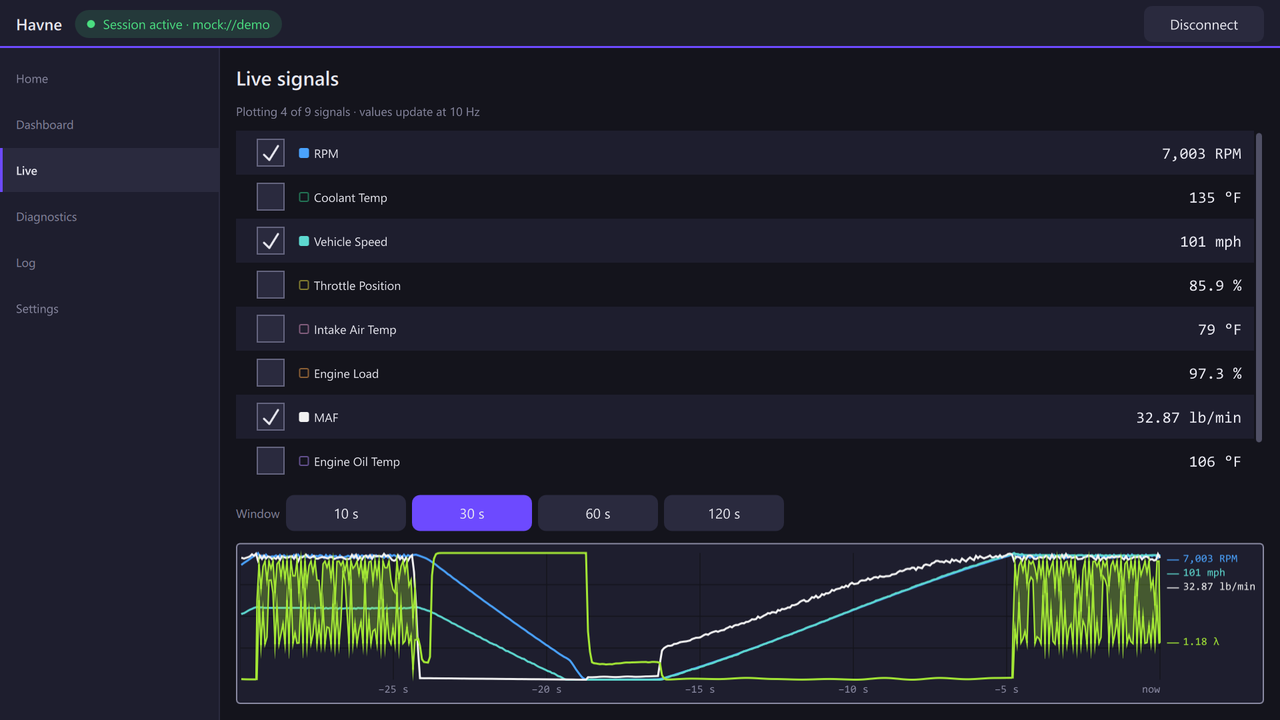
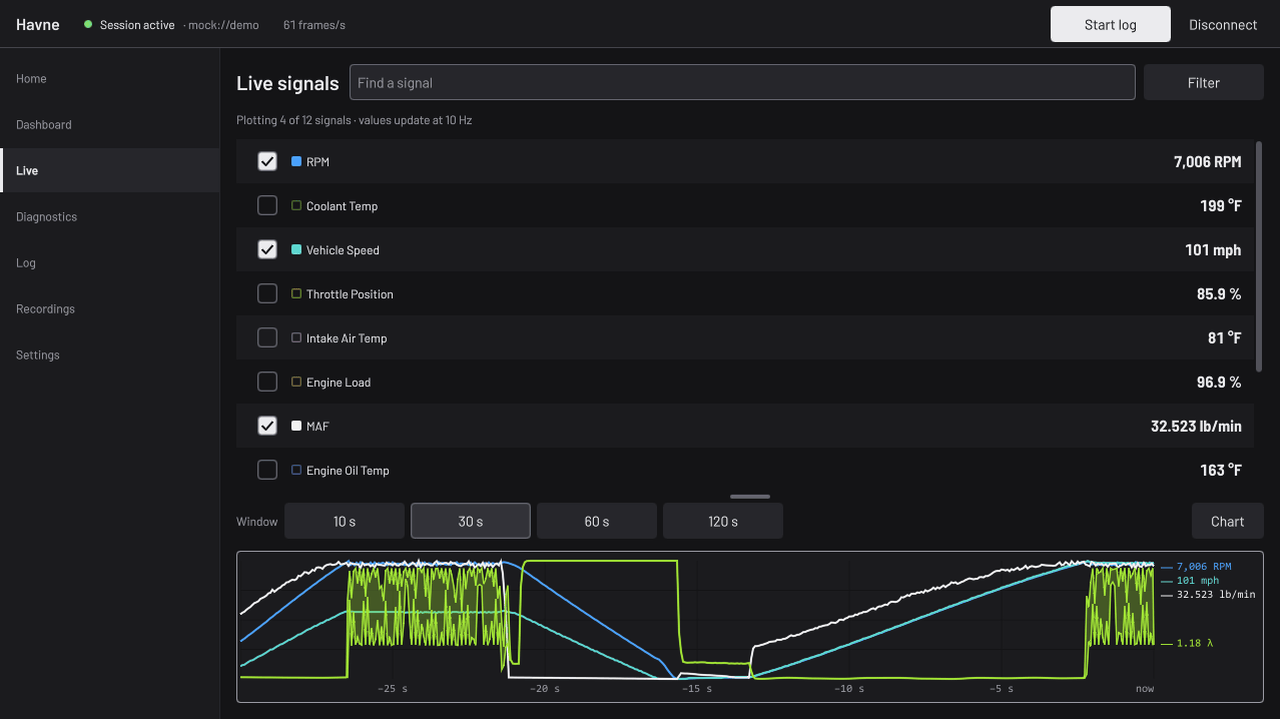
docs: show v0.7.1's look in the README and add a screenshots gallery
The README keeps the Dashboard clip, retaken, and gains a row of three phone shots (Dashboard in Dark, Live, Dashboard in Night red) and desktop Live. docs/screenshots.md holds every page on the desktop and the phone, Dashboard and Live in each theme, Live on its side and the drive view. All on mock://demo. The phone's Dashboard and drive view are the phone layout drawn by the desktop build at the phone's width. Diagnostics, link health, the Log and Recordings move to the gallery as new shots, and log.gif goes.

diff --git a/docs/screenshots.md b/docs/screenshots.md
@@ -1,0 +1,108 @@
+# Screenshots
+
+Every page of Havne on the desktop and the phone, all on the simulated
+vehicle (`mock://demo`) in US units. Dark is the default look; Night
+dims it for a dark cabin in amber or red (Settings, Display). The
+README shows a few of these.
+
+- **Desktop:** the Windows app at 1280x720.
+- **Phone:** Live, Codes, the Log and Settings are from the test phone
+  (Android 16). The Dashboard and the drive view are the phone layout
+  with its built-in default page, the same pages drawn by the desktop
+  build in the phone's form at the phone's width.
+
+## Desktop
+
+### Dashboard
+
+![The Dashboard through a quarter mile: a launch from the two-step near 3,900 rpm, upshifts that refill the shift lights, and about 103 mph near the line](images/dashboard.gif)
+
+*A quarter mile on the warmed-up vehicle: the launch, each upshift, and
+coolant and oil climbing toward the fan's cut-in.*
+
+| Night, amber | Night, red |
+|---|---|
+| [![The Dashboard in Night's amber style in a 2nd-gear pull at 5,772 rpm](images/desktop-dashboard-amber.png)](images/desktop-dashboard-amber.png) | [![The Dashboard in Night's red style in a 2nd-gear pull at 6,366 rpm](images/desktop-dashboard-red.png)](images/desktop-dashboard-red.png) |
+
+### Live
+
+![Live: rpm, speed, MAF and lambda through a 3rd-gear pull onto the limiter](images/live.png)
+
+*Four signals plotted through a 3rd-gear pull onto the limiter, with the
+2nd-gear pull still on the chart.*
+
+| Night, amber | Night, red |
+|---|---|
+| [![Live in Night's amber style, all twelve signals plotted in a pull at 6,433 rpm](images/desktop-live-amber.png)](images/desktop-live-amber.png) | [![Live in Night's red style, all twelve signals plotted on the limiter](images/desktop-live-red.png)](images/desktop-live-red.png) |
+
+### Diagnostics
+
+![Diagnostics: the inspection verdict, ECU 0x7E8's stored, pending and permanent codes with their titles, and the readiness monitors](images/desktop-diagnostics.png)
+
+*The inspection verdict (it would fail: the ECU commands the
+check-engine light on), each code with its SAE J2012 title, and the
+readiness monitors, each done this drive and complete since the clear.*
+
+### Log
+
+| Activity | Frames |
+|---|---|
+| [![The Log's activity view: two connects and, between them, the disconnect's Delivery line](images/desktop-log-activity.png)](images/desktop-log-activity.png) | [![The Log's frame table in developer mode, newest first](images/desktop-log-frames.png)](images/desktop-log-frames.png) |
+| Each session's lines; a disconnect adds its Delivery line (none dropped, and the GUI thread's wait) | In developer mode, the raw frames: time, length, standard or extended ID, payload |
+
+### Recordings
+
+![The Recordings page: a 15-minute recording open in the viewer, four signals plotted, the frames check finding nothing](images/desktop-recordings.png)
+
+*A 15-minute recording in the viewer: rpm and speed through each loop,
+coolant and oil warming from the cold start; the frames check found
+nothing in 18,442 frames.*
+
+### Link health
+
+![Live over the fake J2534 driver with every request refused: the "Requests failing" status and banner, and the chart waiting for data](images/desktop-link-health.png)
+
+*Every request refused by the fake J2534 driver: the link reads
+"Requests failing", not idle, and the banner says what to check.*
+
+### Home and Settings
+
+| Home | Settings |
+|---|---|
+| [![Home with a session running](images/desktop-home.png)](images/desktop-home.png) | [![Settings with Display open beside the list: display size, Night and its style, units](images/desktop-settings-display.png)](images/desktop-settings-display.png) |
+| The session's state and the core's version | Display beside the list: size, Night off, on or scheduled, its style, units |
+
+## Phone
+
+### Dashboard
+
+| Dark | Night, amber | Night, red |
+|---|---|---|
+| [![The phone layout's Dashboard in a 2nd-gear pull at 6,252 rpm](images/phone-dashboard-dark.png)](images/phone-dashboard-dark.png) | [![The phone layout's Dashboard in Night's amber style at 5,359 rpm](images/phone-dashboard-amber.png)](images/phone-dashboard-amber.png) | [![The phone layout's Dashboard in Night's red style at 6,475 rpm](images/phone-dashboard-night.png)](images/phone-dashboard-night.png) |
+
+*The phone's joined panel: the tach beside speed, coolant and oil, MAF
+with its trace, then intake air, load and throttle.*
+
+### Drive view
+
+![The drive view: the gauges full screen under a one-line status, every bar hidden](images/phone-drive-view.png)
+
+*The drive view: every bar hidden, the gauges full screen under a
+one-line status; a tap brings the controls back.*
+
+### Live
+
+| Dark | Night, amber | Night, red |
+|---|---|---|
+| [![Live on the test phone on the limiter, twelve signals and a minute of the chart](images/phone-live.png)](images/phone-live.png) | [![Live on the test phone in Night's amber style on the limiter](images/phone-live-amber.png)](images/phone-live-amber.png) | [![Live on the test phone in Night's red style on the limiter](images/phone-live-red.png)](images/phone-live-red.png) |
+
+![Live on the test phone on its side: the chart takes the page through the quarter mile](images/phone-live-landscape.png)
+
+*On its side, the chart takes the page: the quarter mile at the right.*
+
+### Codes, Log and Settings
+
+| Codes | Log | Settings |
+|---|---|---|
+| [![Codes on the test phone: the inspection verdict and ECU 0x7E8's codes with their titles](images/phone-codes.png)](images/phone-codes.png) | [![The Log's frame table on the test phone](images/phone-log.png)](images/phone-log.png) | [![Settings, Display on the test phone: size, Night, units, and the drive view's options](images/phone-settings-display.png)](images/phone-settings-display.png) |
+| The verdict, then each ECU's codes | The status opens the Log; here its frames | Display, with the drive view's bars and orientation |

diff --git a/README.md b/README.md
@@ -38,22 +38,16 @@ Havne reads a car through J2534, ELM327 or SocketCAN adapters on Windows, Linux 
 - **`havne-cli` and Python:** any session as JSON lines or iterators, recordings viewed and exported offline, the simulated car served as an ELM327 adapter ([ADR-0031](docs/adr/0031-command-line-client.md), [ADR-0053](docs/adr/0053-python-bindings.md)).
 - **A simulated vehicle:** a modeled car through a cold start, pulls onto the limiter and a quarter mile, so every page runs with no hardware.
 
-| Live view | Link health |
-|---|---|
-| [![Live view: a 3rd-gear pull onto the limiter](docs/images/live.png)](docs/images/live.png) | [![Live view with every request failing: an amber banner](docs/images/link-health.png)](docs/images/link-health.png) |
-| A 3rd-gear pull onto the limiter: rpm, speed and MAF rise together, then rpm saws while speed holds and lambda swings lean on each fuel cut | Every request refused by the fake J2534 driver: the link reads "requests failing", not idle, and the page says what to check |
+| Dashboard | Live | Dashboard at night |
+|---|---|---|
+| [![The phone layout's Dashboard in a 2nd-gear pull at 6,252 rpm](docs/images/phone-dashboard-dark.png)](docs/images/phone-dashboard-dark.png) | [![Live on the test phone on the limiter, each reading with its value and a minute of the chart](docs/images/phone-live.png)](docs/images/phone-live.png) | [![The phone layout's Dashboard with Night on in red](docs/images/phone-dashboard-night.png)](docs/images/phone-dashboard-night.png) |
+| The phone layout in a 2nd-gear pull, the shift lights filling | Live on the test phone, on the rev limiter | Night in red, for a dark cabin |
 
-![The Diagnostics page on the simulated vehicle](docs/images/diagnostics.png)
+![Live on the desktop: rpm, speed, MAF and lambda through a 3rd-gear pull onto the limiter](docs/images/live.png)
 
-*Diagnostics: the inspection verdict, each code with its SAE J2012 title, the readiness monitors.*
+*Live on the desktop: a 3rd-gear pull onto the limiter, lambda swinging lean on each fuel cut.*
 
-![The Log page in developer mode: activity, then raw frames](docs/images/log.gif)
-
-*The Log page in developer mode: each session, then the frames.*
-
-![The Recordings page: two runs overlaid](docs/images/recordings.png)
-
-*Recordings: a warm loop's pull with the cold start's overlaid, aligned on a marker.*
+Every page on the desktop and the phone, in each theme: [docs/screenshots.md](docs/screenshots.md).
 
 ## Architecture
 
@@ -146,6 +140,7 @@ v0.7.0, the dashboard and the UI, is the latest release. Next:
 | [docs/j2534.md](docs/j2534.md), [docs/elm327.md](docs/elm327.md) | How each adapter transport works |
 | [docs/linux.md](docs/linux.md) | Havne on Linux: the AppImage, the core packages, adapters and permissions, SocketCAN, tracing |
 | [docs/ios.md](docs/ios.md) | Havne on iPhone: installing CI's unsigned build with your own Apple ID, what works there |
+| [docs/screenshots.md](docs/screenshots.md) | Every page on the desktop and the phone, in each theme |
 | [docs/development.md](docs/development.md) | Builds, tests, CI, releases, troubleshooting |
 | [docs/bench-sessions/](docs/bench-sessions/bench-prep.md) | Real-hardware sessions, their run sheets, and what only hardware can confirm |
 | [docs/engineering-log.md](docs/engineering-log.md) | Milestones and lessons learned |

diff --git a/docs/architecture.md b/docs/architecture.md
@@ -637,6 +637,7 @@ Detail and gaps: [testing.md](testing.md).
 | How to run Havne on Linux: the downloads, adapters and permissions, SocketCAN, tracing | [linux.md](linux.md) |
 | How to write a file of your own signals: DIDs and PIDs, enumerations, computed signals | [signal-files.md](signal-files.md) |
 | How to install Havne on an iPhone for testing, and what works there | [ios.md](ios.md) |
+| What each page looks like, on the desktop and the phone, in each theme | [screenshots.md](screenshots.md) |
 | What is verified, by which test, and the known gaps | [testing.md](testing.md) |
 | Why the design and checks are enough for what Havne does, and where they stop | [security-assurance.md](security-assurance.md) |
 | What changed in each release | [CHANGELOG.md](../CHANGELOG.md) |
